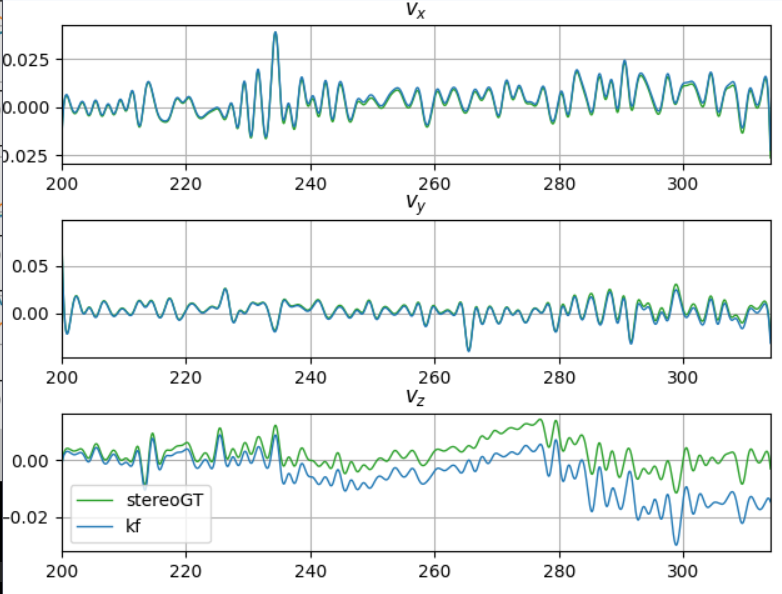
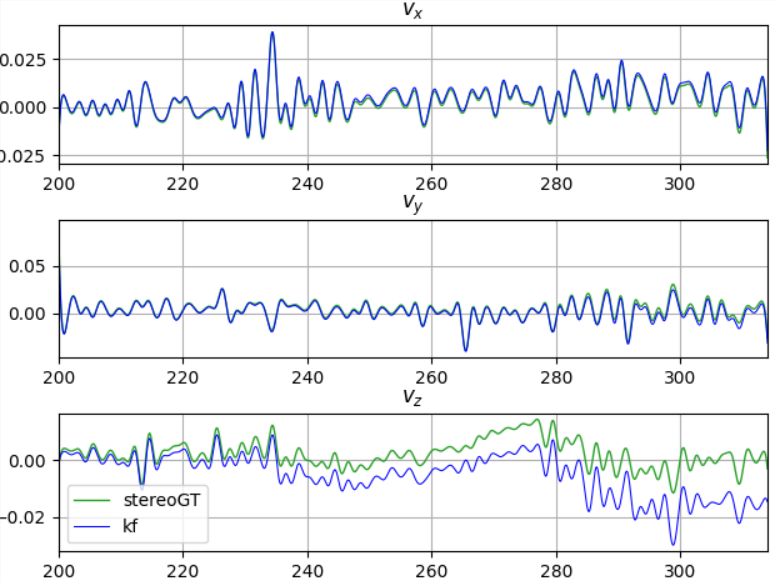
updated readme: improved kf plots, velocity test as subchapter to kf prop only

Changed region(s): [[0.0, 0.0, 1.0, 1.0]]

diff --git a/Filter/Trajectory.py b/Filter/Trajectory.py
@@ -247,8 +247,9 @@ class VisualTraj(Trajectory):
             line.set_linewidth(1)
             line.set_color('tab:orange')
         elif label == 'kf':
-            line.set_linewidth(1)
-            line.set_color('tab:blue')
+            line.set_linewidth(0.75)
+            line.set_linestyle('-')
+            line.set_color('blue')
         else:
             line.set_color('darkgrey')
             line.set_linewidth(0.5)

diff --git a/readme.md b/readme.md
@@ -5,8 +5,8 @@ Based on ![this repo](https://github.com/skrogh/msf_ekf).
 ## Table of contents
 * [Current status (of the filter)](#current-status-of-the-filter)
 * [Preliminaries/Tests](#preliminariestests)
-  * [Comparing velocities](#comparing-velocities)
   * [KF propagation only](#kf-propagation-only)
+    * [Comparing velocities](#comparing-velocities)
 * [Old tests](/tests)
   * [Offline trajectories](/tests#offline-trajectories)
   * [Fake IMU data](/tests#fake-imu-data)
@@ -26,7 +26,7 @@ Pictured: KF with both propagation and update steps; **non-noisy IMU**
 for the time being.
 
 ![](img/kf.PNG)
-![](img/kf_z.PNG)
+![](img/kf_zoom.PNG)
 
 -----
 
@@ -43,7 +43,7 @@ Pictured: after correcting the initial values for the velocity `v0`:
 
 ![](img/traj_only_prop.PNG)
 
-### Comparing velocities
+#### Comparing velocities
 ```
 python3 main.py prop nonoise vel
 ```
